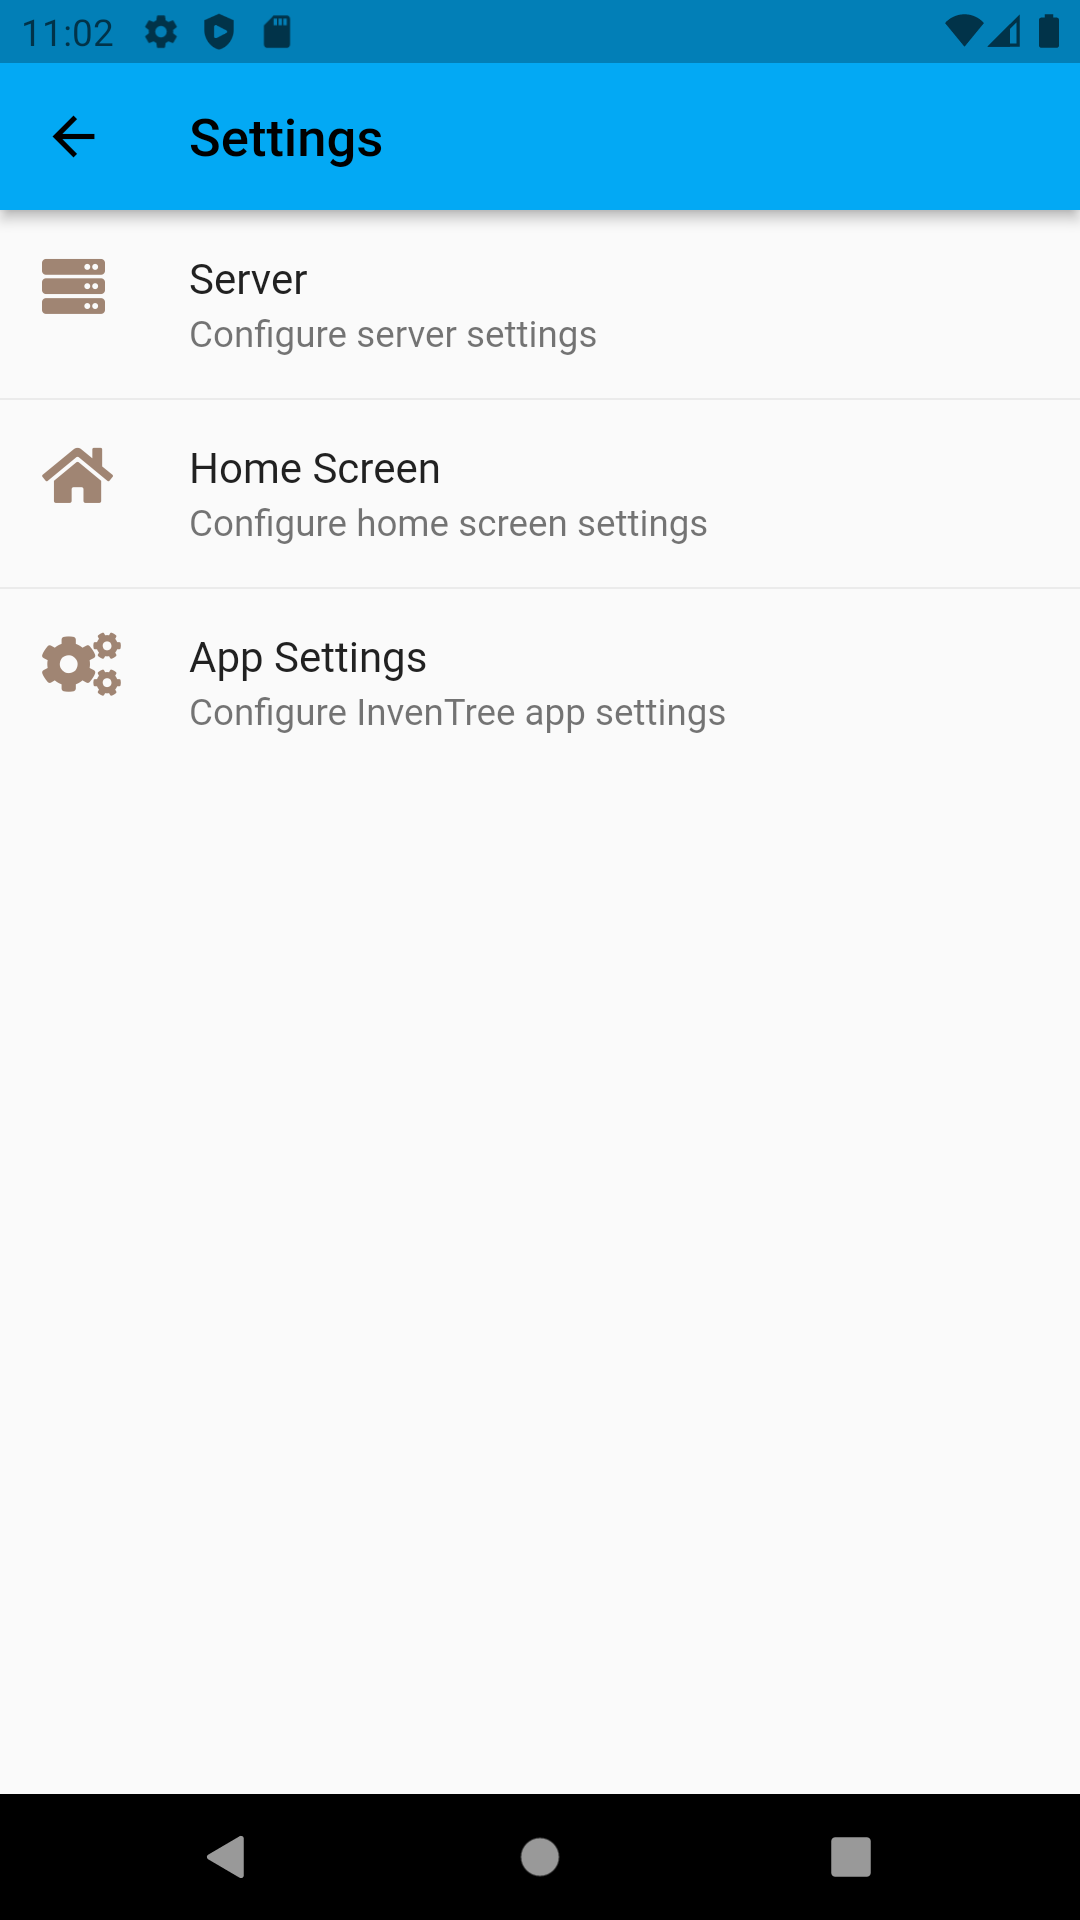
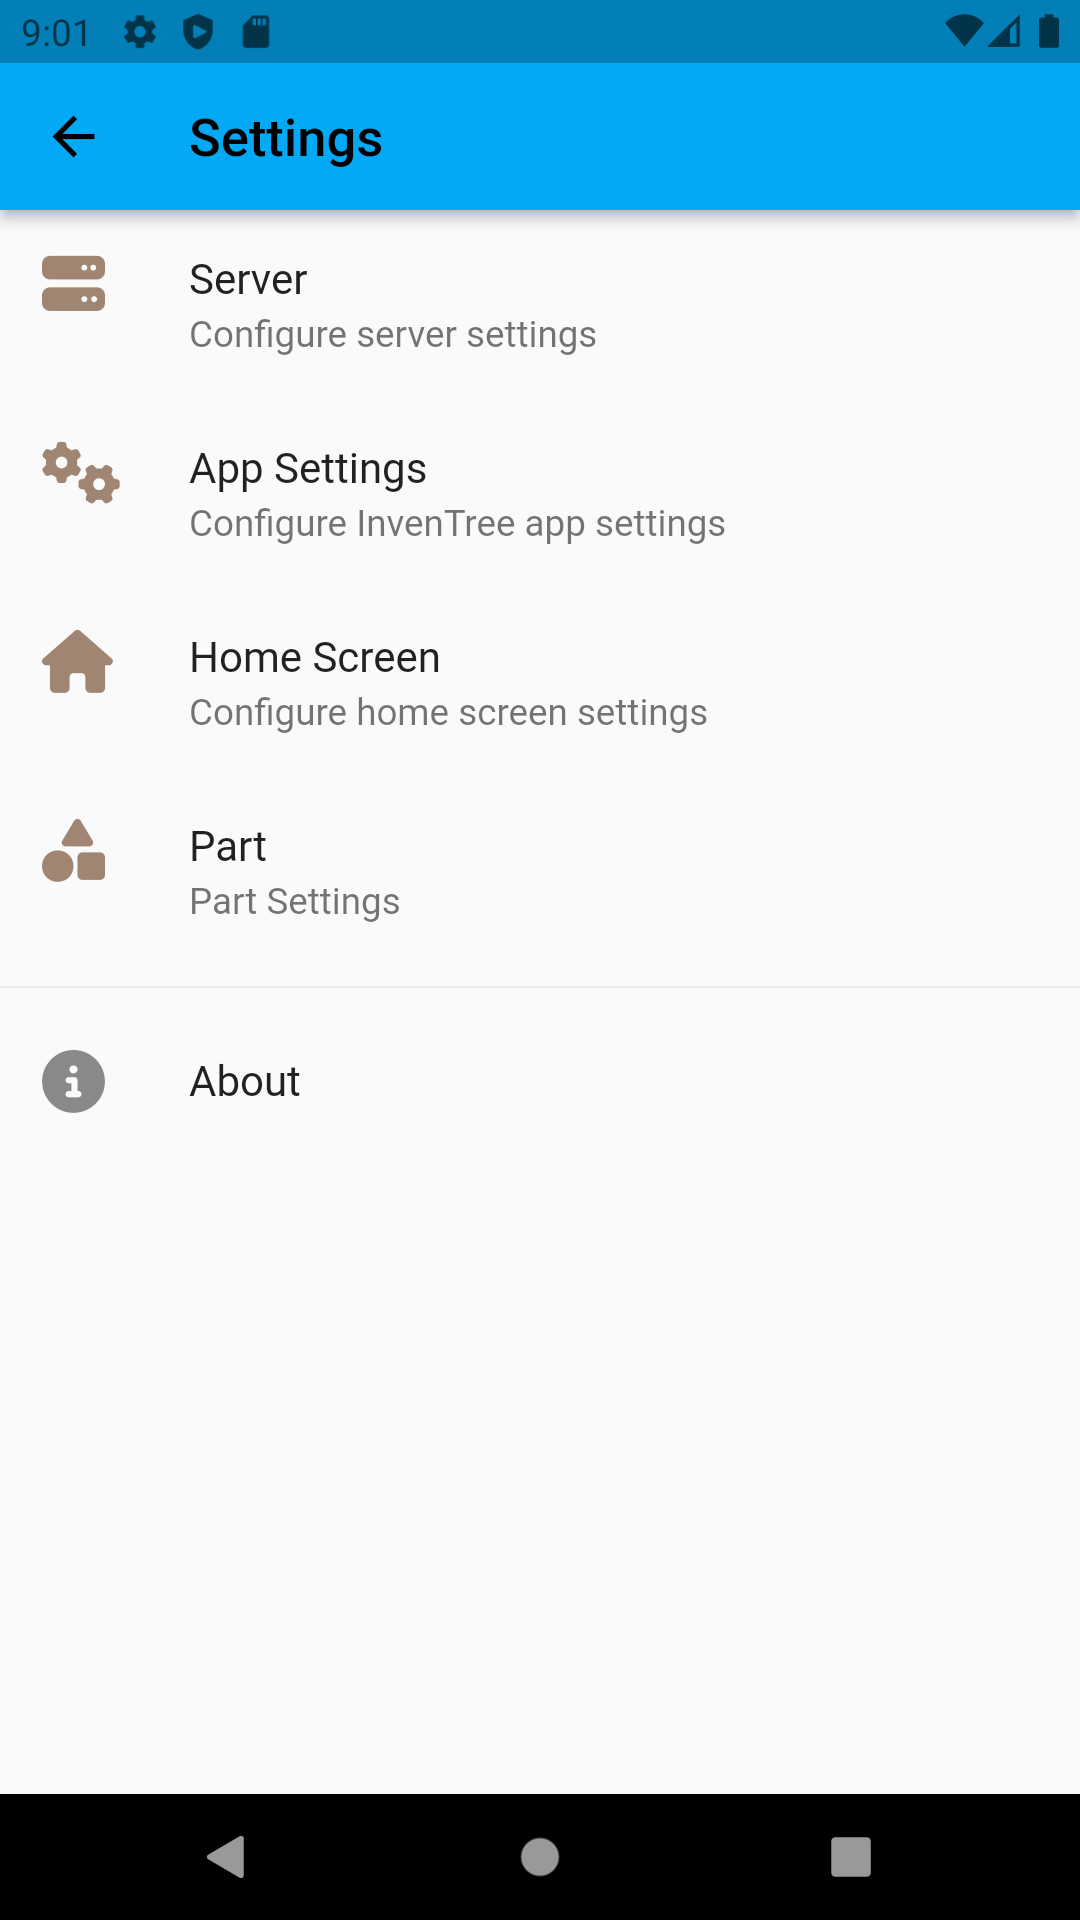
more updates

diff --git a/docs/app/settings.md b/docs/app/settings.md
@@ -9,8 +9,10 @@ The *Settings* view provides access to user configurable settings, in addition t
 The main settings view is shown below, and provides the following options:
 
 - **Server** - Configure and select server profile 
-- **Home Screen** - Configure home screen settings
 - **App Settings** - Configure app settings
+- **Home Screen** - Configure home screen settings
+- **Part** - Configure part settings
+- **About** - Display  app version information
 
 {% with id="settings_view", url="app/settings.png", maxheight="240px", description="Settings view" %}
 {% include 'img.html' %}
